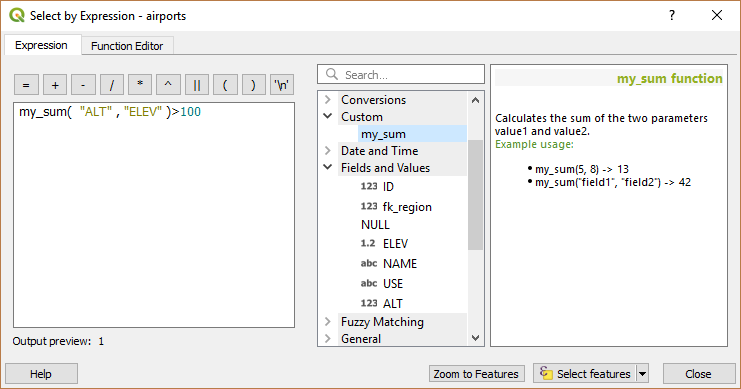
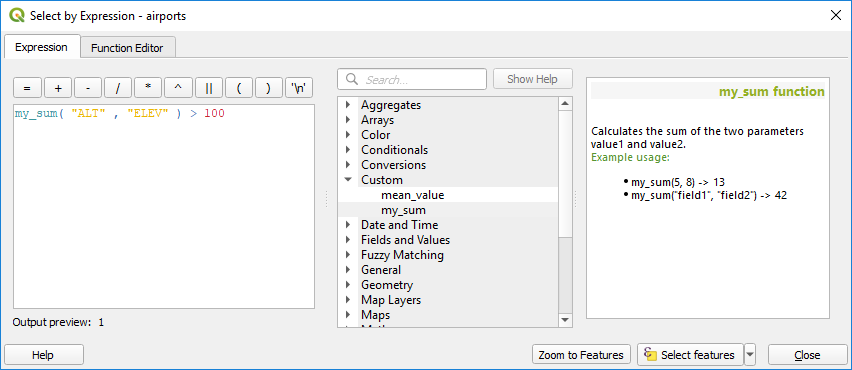
Add some tips for expression
* Add comment and show values panel when hidden
* Update concerned screenshots
* Update and complete field calculator description to match the screenshot and use appropriate roles

diff --git a/source/docs/user_manual/working_with_vector/expression.rst b/source/docs/user_manual/working_with_vector/expression.rst
@@ -113,6 +113,37 @@ using functions, layer's fields and values. It contains following widgets:
   * *Marker*: for every other error (eg, missing parenthesis, unexpected
     character) at a single location.
 
+  .. tip:: **Document your expression with comments**
+
+    When using complex expression, it may be a good practice to add
+    texts either as a multiline or inline comments to help you remember.
+
+    .. code-block:: sql
+
+      /*
+      Labels each region with its highest (in altitude) airport(s)
+      and altitude, eg 'AMBLER : 264m' for 'Northwest Artic' region
+      */
+      with_variable(
+        'airport_alti', -- stores the highest altitude of the region
+        aggregate(
+          'airports',
+          'max',
+          "ELEV", -- the field containing the altitude
+          -- and limit the airports to the region they are within
+          filter := within( $geometry, geometry( @parent ) )
+        ),
+          aggregate( -- finds airports at the same altitude in the region 
+            'airports',
+            'concatenate',
+            "NAME",
+            filter := within( $geometry, geometry( @parent ) )
+              and "ELEV" = @airport_alti
+          )
+          || ' : ' || @airport_alti || 'm'
+          -- using || allows to skip regions without airport
+      )
+
 * Under the expression editor, an :guilabel:`Output preview` displays the result
   of the expression evaluated on the first feature of the layer. In case of
   error, it indicates it and you can access details with the provided hyperlink.
@@ -121,14 +152,21 @@ using functions, layer's fields and values. It contains following widgets:
   find a particular function or field.
   Double-clicking an item adds it to the expression editor.
 * A help panel displays help for each selected item in the function selector.
+
+  .. tip::
+
+   Press :kbd:`Ctrl+Click` when hovering a function name in an expression to
+   automatically display its help in the dialog.
+
 * A field's values widget shown when a field is selected in the function selector
   helps to fetch features attributes. Double-clicking a value adds it to the
   expression editor.
 
 .. tip::
 
- Press :kbd:`Ctrl+Click` when hovering over a function name in an expression to
- automatically display its help in the dialog.
+   Sometimes, the right panel showing functions help or field values can be
+   collapsed, hence invisible in the dialog. Press the :guilabel:`Show Values`
+   or :guilabel:`Show Help` button to get it back.
 
 .. _figure_expression_tab:
 

diff --git a/source/docs/user_manual/working_with_vector/attribute_table.rst b/source/docs/user_manual/working_with_vector/attribute_table.rst
@@ -512,13 +512,15 @@ A short example illustrates how field calculator works when using the
    |calculateField| :sup:`Field Calculator` dialog.
 #. Select the |checkbox| :guilabel:`Create a new field` checkbox to save the
    calculations into a new field.
-#. Add ``length`` as Output field name and ``real`` as Output field type, and
-   define Output field length to be 10 and Precision, 3.
-#. Now double click on function ``$length`` in the :guilabel:`Geometry` group
+#. Add ``length_km`` as :guilabel:`Output field name`
+#. Define the :guilabel:`Output field type` as ``Decimal number (real)``
+#. Set the :guilabel:`Output field length` to ``10`` and the :guilabel:`Precision`
+   to ``3``
+#. Double click the ``$length`` function in the :guilabel:`Geometry` group
    to add it into the Field calculator expression box.
 #. Complete the expression by typing ``/ 1000`` in the Field calculator
    expression box and click :guilabel:`OK`.
-#. You can now find a new field ``length`` in the attribute table.
+#. You can now find a new :guilabel:`length_km` field in the attribute table.
 
 .. _virtual_field:
 
